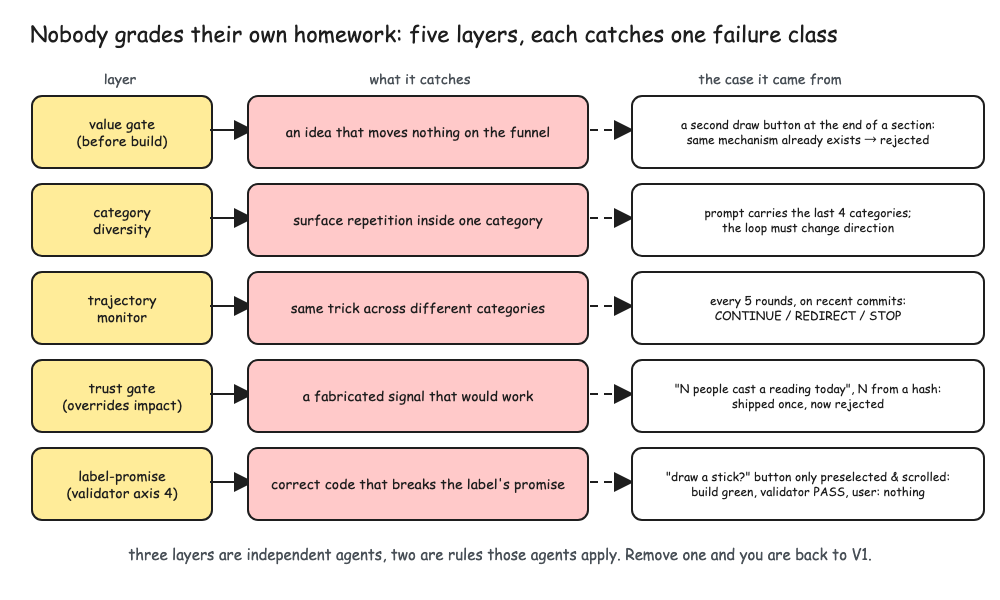
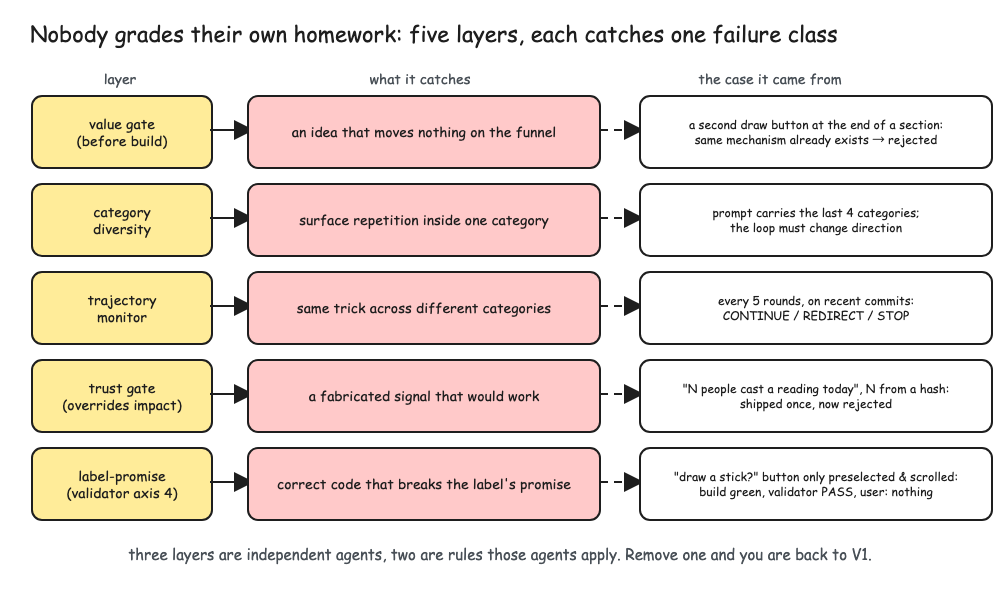
Fix the last three layout findings; label offsets 24px

diff --git a/examples/loop-engineering/spec.py b/examples/loop-engineering/spec.py
@@ -90,9 +90,9 @@ def d3(lang):
         y = 95 + i * 88
         d.box(30, y, 180, 70, layer, YELLOW, fs=14)
         d.arrow(210, y + 35, 250, y + 35)
-        d.box(250, y, 340, 70, catches, RED, fs=14)
-        d.arrow(590, y + 35, 630, y + 35, None, True)
-        d.box(630, y, 350, 70, case, WHITE, fs=12)
+        d.box(250, y, 350, 70, catches, RED, fs=14)
+        d.arrow(600, y + 35, 640, y + 35, None, True)
+        d.box(640, y, 350, 70, case, WHITE, fs=12)
     d.text(500, 545, {"en": "three layers are independent agents, two are rules those agents apply. Remove one and you are back to V1.",
                       "zh": "三層是獨立 Agent，兩層是 Agent 要套的規則。少一層就回到 V1。"}, 15, GRAY, "center")
     return d
@@ -149,7 +149,7 @@ def d5(lang):
     d.text(190, 462, {"en": "3× failure · 3 maintenance rounds · budget → exit, fix tools", "zh": "連 3 輪失敗 · 連 3 維護輪 · 預算 → 退出，修工具"}, 11, GRAY, "center")
     d.arrow(350, 395, 380, 395)
     d.box(380, 330, 250, 130, {"en": "P · positioning\nthe only slow node\nthe only place the objective\nfunction can change", "zh": "P · 定位\n唯一的慢節點\n唯一能改目標函數的地方"}, BLUE, fs=14)
-    d.path([(505, 330), (505, 298), (42, 298), (42, 160), (50, 160)], {"en": "P → C", "zh": "P → C"}, True, fs=12, mid=(300, 298))
+    d.path([(505, 330), (505, 298), (42, 298), (42, 160), (50, 160)], {"en": "P → C", "zh": "P → C"}, True, fs=12, mid=(540, 330))
     d.box(650, 330, 320, 60, {"en": "human present: /position,\nmulti-round questions, all fields", "zh": "人在：/position 多輪提問收斂，\n全部欄位"}, RED, fs=12)
     d.box(650, 400, 320, 60, {"en": "nobody present: strategist proposes,\ncritic attacks; agree → soft fields only,\nelse wait", "zh": "人不在：Strategist 提案、Critic 找反證；\n都同意才改軟欄位，否則等人"}, GREEN, fs=12)
     d.arrow(630, 375, 650, 360); d.arrow(630, 415, 650, 430)
